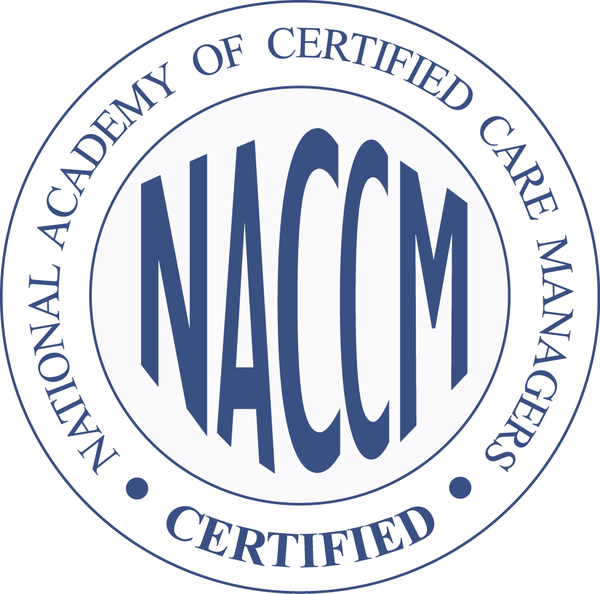
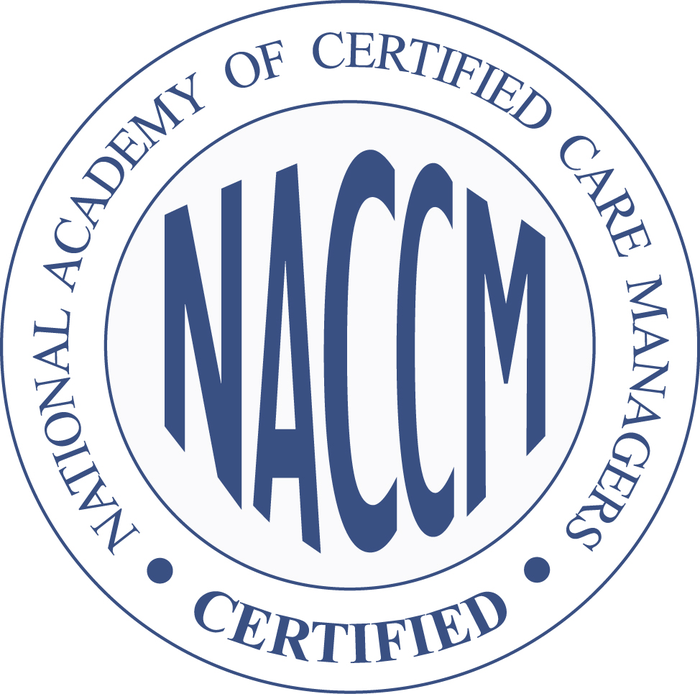
Complete memberships band: CMSA, HPNA, NTAGS added; NACCM upgraded to hi-res

diff --git a/team.html b/team.html
@@ -18,7 +18,7 @@
   <meta property="og:image" content="https://clayborneo.github.io/cwg-site-draft/assets/img/hero/slide1.jpg">
   <meta name="twitter:card" content="summary_large_image">
   <link rel="icon" type="image/svg+xml" href="assets/svg/badge.svg">
-  <link rel="stylesheet" href="assets/css/style.css?v=19">
+  <link rel="stylesheet" href="assets/css/style.css?v=20">
 </head>
 <body>
 
@@ -230,6 +230,9 @@
       <img src="assets/img/orgs/nccdp.png" alt="NCCDP Certified Dementia Practitioner" title="Certified Dementia Practitioner">
       <img src="assets/img/orgs/dags.png" alt="Dallas Area Gerontological Society" title="Dallas Area Gerontological Society">
       <img src="assets/img/orgs/tags.png" alt="Tarrant Area Gerontological Society" title="Tarrant Area Gerontological Society">
+      <img src="assets/img/orgs/ntags.png" alt="North Texas Area Gerontological Society" title="North Texas Area Gerontological Society">
+      <img src="assets/img/orgs/cmsa.png" alt="Case Management Society of America" title="Case Management Society of America">
+      <img src="assets/img/orgs/hpna.png" alt="Hospice and Palliative Nurses Association" title="Hospice and Palliative Nurses Association">
     </div>
   </div>
 </section>

diff --git a/assets/css/style.css b/assets/css/style.css
@@ -669,8 +669,8 @@ section { padding: var(--section-pad) 32px; }
 
 /* --- Org memberships band --- */
 .orgs-band { background: var(--white); border-top: 1px solid var(--border); padding: 52px 0 60px; }
-.orgs-row { display: flex; align-items: center; justify-content: center; gap: 44px; flex-wrap: wrap; }
-.orgs-row img { height: 62px; width: auto; max-width: 220px; object-fit: contain; filter: grayscale(12%); opacity: 0.92; }
+.orgs-row { display: flex; align-items: center; justify-content: center; gap: 30px 40px; flex-wrap: wrap; max-width: 1000px; margin: 0 auto; }
+.orgs-row img { height: 56px; width: auto; max-width: 220px; object-fit: contain; filter: grayscale(12%); opacity: 0.92; }
 
 /* --- Contact form states --- */
 .hp-field { position: absolute; left: -9999px; opacity: 0; height: 0; overflow: hidden; }

diff --git a/404.html b/404.html
@@ -9,7 +9,7 @@
   <link href="https://fonts.googleapis.com/css2?family=DM+Serif+Display:ital@0;1&family=Alex+Brush&family=DM+Sans:ital,wght@0,400;0,500;0,600;0,700;1,400&display=swap" rel="stylesheet">
     <meta name="robots" content="noindex">  <!-- draft only: remove at launch -->
                 <link rel="icon" type="image/svg+xml" href="assets/svg/badge.svg">
-  <link rel="stylesheet" href="assets/css/style.css?v=19">
+  <link rel="stylesheet" href="assets/css/style.css?v=20">
 </head>
 <body>
 

diff --git a/about.html b/about.html
@@ -18,7 +18,7 @@
   <meta property="og:image" content="https://clayborneo.github.io/cwg-site-draft/assets/img/hero/slide1.jpg">
   <meta name="twitter:card" content="summary_large_image">
   <link rel="icon" type="image/svg+xml" href="assets/svg/badge.svg">
-  <link rel="stylesheet" href="assets/css/style.css?v=19">
+  <link rel="stylesheet" href="assets/css/style.css?v=20">
 </head>
 <body>
 

diff --git a/aging-life-care.html b/aging-life-care.html
@@ -18,7 +18,7 @@
   <meta property="og:image" content="https://clayborneo.github.io/cwg-site-draft/assets/img/hero/slide1.jpg">
   <meta name="twitter:card" content="summary_large_image">
   <link rel="icon" type="image/svg+xml" href="assets/svg/badge.svg">
-  <link rel="stylesheet" href="assets/css/style.css?v=19">
+  <link rel="stylesheet" href="assets/css/style.css?v=20">
 </head>
 <body>
 

diff --git a/caring-on-call.html b/caring-on-call.html
@@ -18,7 +18,7 @@
   <meta property="og:image" content="https://clayborneo.github.io/cwg-site-draft/assets/img/hero/slide1.jpg">
   <meta name="twitter:card" content="summary_large_image">
   <link rel="icon" type="image/svg+xml" href="assets/svg/badge.svg">
-  <link rel="stylesheet" href="assets/css/style.css?v=19">
+  <link rel="stylesheet" href="assets/css/style.css?v=20">
 </head>
 <body>
 

diff --git a/contact.html b/contact.html
@@ -18,7 +18,7 @@
   <meta property="og:image" content="https://clayborneo.github.io/cwg-site-draft/assets/img/hero/slide1.jpg">
   <meta name="twitter:card" content="summary_large_image">
   <link rel="icon" type="image/svg+xml" href="assets/svg/badge.svg">
-  <link rel="stylesheet" href="assets/css/style.css?v=19">
+  <link rel="stylesheet" href="assets/css/style.css?v=20">
 </head>
 <body>
 

diff --git a/index.html b/index.html
@@ -18,7 +18,7 @@
   <meta property="og:image" content="https://clayborneo.github.io/cwg-site-draft/assets/img/hero/slide1.jpg">
   <meta name="twitter:card" content="summary_large_image">
   <link rel="icon" type="image/svg+xml" href="assets/svg/badge.svg">
-  <link rel="stylesheet" href="assets/css/style.css?v=19">
+  <link rel="stylesheet" href="assets/css/style.css?v=20">
 </head>
 <body>
 

diff --git a/resources.html b/resources.html
@@ -18,7 +18,7 @@
   <meta property="og:image" content="https://clayborneo.github.io/cwg-site-draft/assets/img/hero/slide1.jpg">
   <meta name="twitter:card" content="summary_large_image">
   <link rel="icon" type="image/svg+xml" href="assets/svg/badge.svg">
-  <link rel="stylesheet" href="assets/css/style.css?v=19">
+  <link rel="stylesheet" href="assets/css/style.css?v=20">
 </head>
 <body>
 
